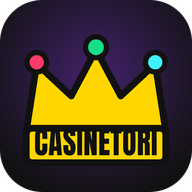
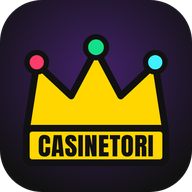
Icono: el texto de la banda ya no toca el borde
Claude-Session: https://claude.ai/code/session_01BC8nAtJhdedbeHBd6GuHtL

Changed region(s): [[0.1562, 0.6562, 0.8438, 0.8438]]

diff --git a/preguntas.html b/preguntas.html
@@ -1,7 +1,7 @@
 <!doctype html><html lang="es"><head><meta charset="utf-8"><meta name="viewport" content="width=device-width,initial-scale=1">
 <title>Preguntas frecuentes | Casinetori</title><meta name="description" content="Respuestas sobre Casinetori: qué es, si usa dinero real (no), si es gratis, cómo jugar con amigos, el simulador de trading y cómo no perder tu cuenta."><meta name="theme-color" content="#0d1020">
 <link rel="icon" href="favicon.png?v=2"><link rel="canonical" href="https://casinetori.com/preguntas.html">
-<meta property="og:type" content="website"><meta property="og:site_name" content="Casinetori"><meta property="og:title" content="Preguntas frecuentes | Casinetori"><meta property="og:description" content="Respuestas sobre Casinetori: qué es, si usa dinero real (no), si es gratis, cómo jugar con amigos, el simulador de trading y cómo no perder tu cuenta."><meta property="og:url" content="https://casinetori.com/preguntas.html"><meta property="og:image" content="https://casinetori.com/og.png?v=2"><meta name="twitter:card" content="summary_large_image">
+<meta property="og:type" content="website"><meta property="og:site_name" content="Casinetori"><meta property="og:title" content="Preguntas frecuentes | Casinetori"><meta property="og:description" content="Respuestas sobre Casinetori: qué es, si usa dinero real (no), si es gratis, cómo jugar con amigos, el simulador de trading y cómo no perder tu cuenta."><meta property="og:url" content="https://casinetori.com/preguntas.html"><meta property="og:image" content="https://casinetori.com/og.png?v=3"><meta name="twitter:card" content="summary_large_image">
 <script async src="https://pagead2.googlesyndication.com/pagead/js/adsbygoogle.js?client=ca-pub-7676884795750639" crossorigin="anonymous"></script><script type="application/ld+json">{"@context": "https://schema.org", "@type": "BreadcrumbList", "itemListElement": [{"@type": "ListItem", "position": 1, "name": "Casinetori", "item": "https://casinetori.com/"}, {"@type": "ListItem", "position": 2, "name": "Preguntas frecuentes sobre Casinetori", "item": "https://casinetori.com/preguntas.html"}]}</script><script type="application/ld+json">{"@context": "https://schema.org", "@type": "FAQPage", "mainEntity": [{"@type": "Question", "name": "¿Qué es Casinetori?", "acceptedAnswer": {"@type": "Answer", "text": "Casinetori es una plataforma de entretenimiento gratuita con casino virtual, trading simulado, minijuegos arcade, rankings y funciones para jugar con amigos."}}, {"@type": "Question", "name": "¿Casinetori usa dinero real?", "acceptedAnswer": {"@type": "Answer", "text": "No. Todo el dinero de Casinetori es ficticio. No se puede apostar dinero real ni comprar dinero del juego."}}, {"@type": "Question", "name": "¿Se puede ganar dinero real?", "acceptedAnswer": {"@type": "Answer", "text": "No. Las monedas y los resultados de Casinetori son virtuales y no tienen ningún valor fuera del juego."}}, {"@type": "Question", "name": "¿Es gratis?", "acceptedAnswer": {"@type": "Answer", "text": "Sí. Se juega gratis desde el navegador del móvil o del ordenador, sin instalar nada. La web se mantiene con anuncios."}}, {"@type": "Question", "name": "¿Se puede jugar con amigos?", "acceptedAnswer": {"@type": "Answer", "text": "Sí. Agregas a tus amigos con su código y podéis competir en la clasificación, regalaros dinero ficticio, mandaros mensajitos y jugar duelos online."}}, {"@type": "Question", "name": "¿Qué es el trading de Casinetori?", "acceptedAnswer": {"@type": "Answer", "text": "Es un simulador de trading con precios ficticios y dinero virtual. Sirve para entretenerse y entender cómo se mueve un mercado, no es asesoramiento financiero."}}, {"@type": "Question", "name": "¿Necesito crear una cuenta?", "acceptedAnswer": {"@type": "Answer", "text": "No. Puedes jugar sin cuenta y tu partida se guarda en tu dispositivo. Si entras con Google, tu partida se guarda en la nube y la tienes en cualquier móvil u ordenador."}}, {"@type": "Question", "name": "¿Qué pasa si pierdo mi cuenta?", "acceptedAnswer": {"@type": "Answer", "text": "Si entras con Google no la pierdes. Si usas usuario y contraseña, apunta tu código de recuperación (Ajustes › Cuenta): con él el jefe del juego puede devolverte la partida."}}]}</script><style>*{box-sizing:border-box}html{-webkit-text-size-adjust:100%}body{margin:0;background:#0d1020;color:#e9ecf8;font:17px/1.65 system-ui,-apple-system,"Segoe UI",Roboto,sans-serif}
 a{color:#ffd600}header{border-bottom:3px dashed #ffd600;background:#14172a}header .in,main,footer .in{max-width:760px;margin:0 auto;padding:16px}
 header .in{display:flex;align-items:center;gap:12px;justify-content:space-between}header a.logo{display:flex;align-items:center;gap:10px;color:#fff;text-decoration:none;font-weight:900;font-size:22px;letter-spacing:.5px}

diff --git a/grupos.html b/grupos.html
@@ -2,7 +2,7 @@
 <html lang="es"><head><meta charset="utf-8"><meta name="viewport" content="width=device-width,initial-scale=1">
 <title>Grupos de amigos y Clasificación propia | Casinetori</title><meta name="description" content="Crea un grupo en Casinetori, invita con enlace o código y compara dinero ficticio, nivel y puntos con tus amigos. Puedes pertenecer a tres grupos."><meta name="theme-color" content="#0d1020">
 <link rel="icon" href="favicon.png?v=2"><link rel="canonical" href="https://casinetori.com/grupos.html">
-<meta property="og:type" content="website"><meta property="og:site_name" content="Casinetori"><meta property="og:locale" content="es_ES"><meta property="og:title" content="Grupos de amigos y Clasificación propia | Casinetori"><meta property="og:description" content="Crea un grupo en Casinetori, invita con enlace o código y compara dinero ficticio, nivel y puntos con tus amigos. Puedes pertenecer a tres grupos."><meta property="og:url" content="https://casinetori.com/grupos.html"><meta property="og:image" content="https://casinetori.com/og.png?v=2"><meta property="og:image:alt" content="Casinetori, juego con dinero ficticio"><meta name="twitter:card" content="summary_large_image">
+<meta property="og:type" content="website"><meta property="og:site_name" content="Casinetori"><meta property="og:locale" content="es_ES"><meta property="og:title" content="Grupos de amigos y Clasificación propia | Casinetori"><meta property="og:description" content="Crea un grupo en Casinetori, invita con enlace o código y compara dinero ficticio, nivel y puntos con tus amigos. Puedes pertenecer a tres grupos."><meta property="og:url" content="https://casinetori.com/grupos.html"><meta property="og:image" content="https://casinetori.com/og.png?v=3"><meta property="og:image:alt" content="Casinetori, juego con dinero ficticio"><meta name="twitter:card" content="summary_large_image">
 <script type="application/ld+json">{"@context": "https://schema.org", "@type": "BreadcrumbList", "itemListElement": [{"@type": "ListItem", "position": 1, "name": "Casinetori", "item": "https://casinetori.com/"}, {"@type": "ListItem", "position": 2, "name": "Grupos de amigos: vuestra propia Clasificación", "item": "https://casinetori.com/grupos.html"}]}</script><style>*{box-sizing:border-box}html{-webkit-text-size-adjust:100%}body{margin:0;background:#0d1020;color:#e9ecf8;font:17px/1.65 system-ui,-apple-system,"Segoe UI",Roboto,sans-serif}
 a{color:#ffd600}header{border-bottom:3px dashed #ffd600;background:#14172a}header .in,main,footer .in{max-width:760px;margin:0 auto;padding:16px}
 header .in{display:flex;align-items:center;gap:12px;justify-content:space-between}header a.logo{display:flex;align-items:center;gap:10px;color:#fff;text-decoration:none;font-weight:900;font-size:22px;letter-spacing:.5px}

diff --git a/bolsa.html b/bolsa.html
@@ -2,7 +2,7 @@
 <html lang="es"><head><meta charset="utf-8"><meta name="viewport" content="width=device-width,initial-scale=1">
 <title>Bolsa de Jugadores con dinero ficticio | Casinetori</title><meta name="description" content="Descubre la Bolsa de Jugadores de Casinetori: acciones virtuales, cartera y precios según el progreso de los jugadores. Todo con dinero ficticio."><meta name="theme-color" content="#0d1020">
 <link rel="icon" href="favicon.png?v=2"><link rel="canonical" href="https://casinetori.com/bolsa.html">
-<meta property="og:type" content="website"><meta property="og:site_name" content="Casinetori"><meta property="og:locale" content="es_ES"><meta property="og:title" content="Bolsa de Jugadores con dinero ficticio | Casinetori"><meta property="og:description" content="Descubre la Bolsa de Jugadores de Casinetori: acciones virtuales, cartera y precios según el progreso de los jugadores. Todo con dinero ficticio."><meta property="og:url" content="https://casinetori.com/bolsa.html"><meta property="og:image" content="https://casinetori.com/og.png?v=2"><meta property="og:image:alt" content="Casinetori, juego con dinero ficticio"><meta name="twitter:card" content="summary_large_image">
+<meta property="og:type" content="website"><meta property="og:site_name" content="Casinetori"><meta property="og:locale" content="es_ES"><meta property="og:title" content="Bolsa de Jugadores con dinero ficticio | Casinetori"><meta property="og:description" content="Descubre la Bolsa de Jugadores de Casinetori: acciones virtuales, cartera y precios según el progreso de los jugadores. Todo con dinero ficticio."><meta property="og:url" content="https://casinetori.com/bolsa.html"><meta property="og:image" content="https://casinetori.com/og.png?v=3"><meta property="og:image:alt" content="Casinetori, juego con dinero ficticio"><meta name="twitter:card" content="summary_large_image">
 <script type="application/ld+json">{"@context": "https://schema.org", "@type": "BreadcrumbList", "itemListElement": [{"@type": "ListItem", "position": 1, "name": "Casinetori", "item": "https://casinetori.com/"}, {"@type": "ListItem", "position": 2, "name": "Bolsa de Jugadores: una cartera basada en el juego", "item": "https://casinetori.com/bolsa.html"}]}</script><style>*{box-sizing:border-box}html{-webkit-text-size-adjust:100%}body{margin:0;background:#0d1020;color:#e9ecf8;font:17px/1.65 system-ui,-apple-system,"Segoe UI",Roboto,sans-serif}
 a{color:#ffd600}header{border-bottom:3px dashed #ffd600;background:#14172a}header .in,main,footer .in{max-width:760px;margin:0 auto;padding:16px}
 header .in{display:flex;align-items:center;gap:12px;justify-content:space-between}header a.logo{display:flex;align-items:center;gap:10px;color:#fff;text-decoration:none;font-weight:900;font-size:22px;letter-spacing:.5px}

diff --git a/casino.html b/casino.html
@@ -1,7 +1,7 @@
 <!doctype html><html lang="es"><head><meta charset="utf-8"><meta name="viewport" content="width=device-width,initial-scale=1">
 <title>Juegos de casino de mentira, sin dinero real | Casinetori</title><meta name="description" content="Juega gratis a juegos de casino virtual con monedas ficticias: tragaperras, ruleta, blackjack y más. Compite en la clasificación con tus amigos sin usar dinero real."><meta name="theme-color" content="#0d1020">
 <link rel="icon" href="favicon.png?v=2"><link rel="canonical" href="https://casinetori.com/casino.html">
-<meta property="og:type" content="website"><meta property="og:site_name" content="Casinetori"><meta property="og:title" content="Juegos de casino de mentira, sin dinero real | Casinetori"><meta property="og:description" content="Juega gratis a juegos de casino virtual con monedas ficticias: tragaperras, ruleta, blackjack y más. Compite en la clasificación con tus amigos sin usar dinero real."><meta property="og:url" content="https://casinetori.com/casino.html"><meta property="og:image" content="https://casinetori.com/og.png?v=2"><meta name="twitter:card" content="summary_large_image">
+<meta property="og:type" content="website"><meta property="og:site_name" content="Casinetori"><meta property="og:title" content="Juegos de casino de mentira, sin dinero real | Casinetori"><meta property="og:description" content="Juega gratis a juegos de casino virtual con monedas ficticias: tragaperras, ruleta, blackjack y más. Compite en la clasificación con tus amigos sin usar dinero real."><meta property="og:url" content="https://casinetori.com/casino.html"><meta property="og:image" content="https://casinetori.com/og.png?v=3"><meta name="twitter:card" content="summary_large_image">
 <script async src="https://pagead2.googlesyndication.com/pagead/js/adsbygoogle.js?client=ca-pub-7676884795750639" crossorigin="anonymous"></script><script type="application/ld+json">{"@context": "https://schema.org", "@type": "BreadcrumbList", "itemListElement": [{"@type": "ListItem", "position": 1, "name": "Casinetori", "item": "https://casinetori.com/"}, {"@type": "ListItem", "position": 2, "name": "Casino virtual con dinero ficticio", "item": "https://casinetori.com/casino.html"}]}</script><style>*{box-sizing:border-box}html{-webkit-text-size-adjust:100%}body{margin:0;background:#0d1020;color:#e9ecf8;font:17px/1.65 system-ui,-apple-system,"Segoe UI",Roboto,sans-serif}
 a{color:#ffd600}header{border-bottom:3px dashed #ffd600;background:#14172a}header .in,main,footer .in{max-width:760px;margin:0 auto;padding:16px}
 header .in{display:flex;align-items:center;gap:12px;justify-content:space-between}header a.logo{display:flex;align-items:center;gap:10px;color:#fff;text-decoration:none;font-weight:900;font-size:22px;letter-spacing:.5px}

diff --git a/trading.html b/trading.html
@@ -1,7 +1,7 @@
 <!doctype html><html lang="es"><head><meta charset="utf-8"><meta name="viewport" content="width=device-width,initial-scale=1">
 <title>Simulador de trading con dinero virtual | Casinetori</title><meta name="description" content="Practica trading de forma virtual: opera con dinero ficticio, sigue tus resultados en gráficas en tiempo real y compite con otros jugadores en la clasificación."><meta name="theme-color" content="#0d1020">
 <link rel="icon" href="favicon.png?v=2"><link rel="canonical" href="https://casinetori.com/trading.html">
-<meta property="og:type" content="website"><meta property="og:site_name" content="Casinetori"><meta property="og:title" content="Simulador de trading con dinero virtual | Casinetori"><meta property="og:description" content="Practica trading de forma virtual: opera con dinero ficticio, sigue tus resultados en gráficas en tiempo real y compite con otros jugadores en la clasificación."><meta property="og:url" content="https://casinetori.com/trading.html"><meta property="og:image" content="https://casinetori.com/og.png?v=2"><meta name="twitter:card" content="summary_large_image">
+<meta property="og:type" content="website"><meta property="og:site_name" content="Casinetori"><meta property="og:title" content="Simulador de trading con dinero virtual | Casinetori"><meta property="og:description" content="Practica trading de forma virtual: opera con dinero ficticio, sigue tus resultados en gráficas en tiempo real y compite con otros jugadores en la clasificación."><meta property="og:url" content="https://casinetori.com/trading.html"><meta property="og:image" content="https://casinetori.com/og.png?v=3"><meta name="twitter:card" content="summary_large_image">
 <script async src="https://pagead2.googlesyndication.com/pagead/js/adsbygoogle.js?client=ca-pub-7676884795750639" crossorigin="anonymous"></script><script type="application/ld+json">{"@context": "https://schema.org", "@type": "BreadcrumbList", "itemListElement": [{"@type": "ListItem", "position": 1, "name": "Casinetori", "item": "https://casinetori.com/"}, {"@type": "ListItem", "position": 2, "name": "Trading simulado con dinero virtual", "item": "https://casinetori.com/trading.html"}]}</script><style>*{box-sizing:border-box}html{-webkit-text-size-adjust:100%}body{margin:0;background:#0d1020;color:#e9ecf8;font:17px/1.65 system-ui,-apple-system,"Segoe UI",Roboto,sans-serif}
 a{color:#ffd600}header{border-bottom:3px dashed #ffd600;background:#14172a}header .in,main,footer .in{max-width:760px;margin:0 auto;padding:16px}
 header .in{display:flex;align-items:center;gap:12px;justify-content:space-between}header a.logo{display:flex;align-items:center;gap:10px;color:#fff;text-decoration:none;font-weight:900;font-size:22px;letter-spacing:.5px}

diff --git a/ranking.html b/ranking.html
@@ -1,7 +1,7 @@
 <!doctype html><html lang="es"><head><meta charset="utf-8"><meta name="viewport" content="width=device-width,initial-scale=1">
 <title>Clasificación de jugadores | Casinetori</title><meta name="description" content="Consulta la clasificación (ranking) de Casinetori: quién tiene más dinero ficticio, más nivel, más logros y los mejores récords en cada juego. Compite con tus amigos."><meta name="theme-color" content="#0d1020">
 <link rel="icon" href="favicon.png?v=2"><link rel="canonical" href="https://casinetori.com/ranking.html">
-<meta property="og:type" content="website"><meta property="og:site_name" content="Casinetori"><meta property="og:title" content="Clasificación de jugadores | Casinetori"><meta property="og:description" content="Consulta la clasificación (ranking) de Casinetori: quién tiene más dinero ficticio, más nivel, más logros y los mejores récords en cada juego. Compite con tus amigos."><meta property="og:url" content="https://casinetori.com/ranking.html"><meta property="og:image" content="https://casinetori.com/og.png?v=2"><meta name="twitter:card" content="summary_large_image">
+<meta property="og:type" content="website"><meta property="og:site_name" content="Casinetori"><meta property="og:title" content="Clasificación de jugadores | Casinetori"><meta property="og:description" content="Consulta la clasificación (ranking) de Casinetori: quién tiene más dinero ficticio, más nivel, más logros y los mejores récords en cada juego. Compite con tus amigos."><meta property="og:url" content="https://casinetori.com/ranking.html"><meta property="og:image" content="https://casinetori.com/og.png?v=3"><meta name="twitter:card" content="summary_large_image">
 <script async src="https://pagead2.googlesyndication.com/pagead/js/adsbygoogle.js?client=ca-pub-7676884795750639" crossorigin="anonymous"></script><script type="application/ld+json">{"@context": "https://schema.org", "@type": "BreadcrumbList", "itemListElement": [{"@type": "ListItem", "position": 1, "name": "Casinetori", "item": "https://casinetori.com/"}, {"@type": "ListItem", "position": 2, "name": "Clasificación de jugadores", "item": "https://casinetori.com/ranking.html"}]}</script><style>*{box-sizing:border-box}html{-webkit-text-size-adjust:100%}body{margin:0;background:#0d1020;color:#e9ecf8;font:17px/1.65 system-ui,-apple-system,"Segoe UI",Roboto,sans-serif}
 a{color:#ffd600}header{border-bottom:3px dashed #ffd600;background:#14172a}header .in,main,footer .in{max-width:760px;margin:0 auto;padding:16px}
 header .in{display:flex;align-items:center;gap:12px;justify-content:space-between}header a.logo{display:flex;align-items:center;gap:10px;color:#fff;text-decoration:none;font-weight:900;font-size:22px;letter-spacing:.5px}

diff --git a/amigos.html b/amigos.html
@@ -1,7 +1,7 @@
 <!doctype html><html lang="es"><head><meta charset="utf-8"><meta name="viewport" content="width=device-width,initial-scale=1">
 <title>Juegos online con amigos | Casinetori</title><meta name="description" content="Juega online con tus amigos en Casinetori: agrégalos con su código, regálales dinero ficticio, mándales mensajitos, retaos a duelos y competid en la clasificación."><meta name="theme-color" content="#0d1020">
 <link rel="icon" href="favicon.png?v=2"><link rel="canonical" href="https://casinetori.com/amigos.html">
-<meta property="og:type" content="website"><meta property="og:site_name" content="Casinetori"><meta property="og:title" content="Juegos online con amigos | Casinetori"><meta property="og:description" content="Juega online con tus amigos en Casinetori: agrégalos con su código, regálales dinero ficticio, mándales mensajitos, retaos a duelos y competid en la clasificación."><meta property="og:url" content="https://casinetori.com/amigos.html"><meta property="og:image" content="https://casinetori.com/og.png?v=2"><meta name="twitter:card" content="summary_large_image">
+<meta property="og:type" content="website"><meta property="og:site_name" content="Casinetori"><meta property="og:title" content="Juegos online con amigos | Casinetori"><meta property="og:description" content="Juega online con tus amigos en Casinetori: agrégalos con su código, regálales dinero ficticio, mándales mensajitos, retaos a duelos y competid en la clasificación."><meta property="og:url" content="https://casinetori.com/amigos.html"><meta property="og:image" content="https://casinetori.com/og.png?v=3"><meta name="twitter:card" content="summary_large_image">
 <script async src="https://pagead2.googlesyndication.com/pagead/js/adsbygoogle.js?client=ca-pub-7676884795750639" crossorigin="anonymous"></script><script type="application/ld+json">{"@context": "https://schema.org", "@type": "BreadcrumbList", "itemListElement": [{"@type": "ListItem", "position": 1, "name": "Casinetori", "item": "https://casinetori.com/"}, {"@type": "ListItem", "position": 2, "name": "Juega y compite con tus amigos", "item": "https://casinetori.com/amigos.html"}]}</script><style>*{box-sizing:border-box}html{-webkit-text-size-adjust:100%}body{margin:0;background:#0d1020;color:#e9ecf8;font:17px/1.65 system-ui,-apple-system,"Segoe UI",Roboto,sans-serif}
 a{color:#ffd600}header{border-bottom:3px dashed #ffd600;background:#14172a}header .in,main,footer .in{max-width:760px;margin:0 auto;padding:16px}
 header .in{display:flex;align-items:center;gap:12px;justify-content:space-between}header a.logo{display:flex;align-items:center;gap:10px;color:#fff;text-decoration:none;font-weight:900;font-size:22px;letter-spacing:.5px}

diff --git a/index.html b/index.html
@@ -14,7 +14,7 @@ d.onclick=function(){try{localStorage.setItem('vicio-arcade-v2-v','inicio')}catc
 <title>Casinetori · Minijuegos, ligas y retos con amigos</title>
 <meta name="theme-color" content="#141416">
 <meta name="app-version" content="2026-10-04-u">
-<link rel="icon" type="image/png" href="favicon.png?v=2"><link rel="apple-touch-icon" href="apple-touch-icon.png?v=2">
+<link rel="icon" type="image/png" href="favicon.png?v=2"><link rel="apple-touch-icon" href="apple-touch-icon.png?v=3">
 <style>[hidden]{display:none!important}html,body{margin:0}img{max-width:100%}#toasts{top:auto;bottom:calc(20px + env(safe-area-inset-bottom,0px))}
 @media (max-width:880px){#toasts{top:calc(var(--barh,64px) + 8px + env(safe-area-inset-top,0px));bottom:auto}}
 @media (max-width:880px){.nav .nb{font-size:9px;letter-spacing:0;min-width:0;overflow:hidden}.nav .nb .ico{width:36px}}
@@ -3370,8 +3370,8 @@ html body #trLiveBar{position:static;margin:0 0 8px;left:auto;right:auto;top:aut
 <link rel="canonical" href="https://casinetori.com/">
 <script async src="https://pagead2.googlesyndication.com/pagead/js/adsbygoogle.js?client=ca-pub-7676884795750639" crossorigin="anonymous"></script>
 <meta property="og:url" content="https://casinetori.com/">
-<meta property="og:image" content="https://casinetori.com/og.png?v=2">
-<meta name="twitter:image" content="https://casinetori.com/og.png?v=2">
+<meta property="og:image" content="https://casinetori.com/og.png?v=3">
+<meta name="twitter:image" content="https://casinetori.com/og.png?v=3">
 <!-- Cuando Google Search Console te dé el código, quita el comentario y pégalo aquí:
 <meta name="google-site-verification" content="CODIGO_DE_SEARCH_CONSOLE">
 -->

diff --git a/tienda.html b/tienda.html
@@ -14,7 +14,7 @@
 <meta property="og:title" content="Tienda de objetos virtuales y colecciones | Casinetori">
 <meta property="og:description" content="Descubre la Tienda de Casinetori: caprichos, vehículos, casas y objetos Cosmos. Colecciona con dinero ficticio y enseña tus compras en tu perfil.">
 <meta property="og:url" content="https://casinetori.com/tienda.html">
-<meta property="og:image" content="https://casinetori.com/og.png?v=2">
+<meta property="og:image" content="https://casinetori.com/og.png?v=3">
 <meta property="og:image:alt" content="Casinetori, juego web con dinero ficticio">
 <meta name="twitter:card" content="summary_large_image">
 <script type="application/ld+json">{"@context": "https://schema.org", "@type": "BreadcrumbList", "itemListElement": [{"@type": "ListItem", "position": 1, "name": "Casinetori", "item": "https://casinetori.com/"}, {"@type": "ListItem", "position": 2, "name": "Una Tienda de caprichos y objetos virtuales", "item": "https://casinetori.com/tienda.html"}]}</script>

diff --git a/juegos.html b/juegos.html
@@ -14,7 +14,7 @@
 <meta property="og:title" content="Minijuegos online gratis: Dash, Snake y más | Casinetori">
 <meta property="og:description" content="Prueba varios minijuegos online en Casinetori: Dash, Snake, Memoria, Penaltis y más. Supera tus marcas y compara resultados con amigos.">
 <meta property="og:url" content="https://casinetori.com/juegos.html">
-<meta property="og:image" content="https://casinetori.com/og.png?v=2">
+<meta property="og:image" content="https://casinetori.com/og.png?v=3">
 <meta property="og:image:alt" content="Casinetori, juego web con dinero ficticio">
 <meta name="twitter:card" content="summary_large_image">
 <script type="application/ld+json">{"@context": "https://schema.org", "@type": "BreadcrumbList", "itemListElement": [{"@type": "ListItem", "position": 1, "name": "Casinetori", "item": "https://casinetori.com/"}, {"@type": "ListItem", "position": 2, "name": "Minijuegos online gratis para superar tus marcas", "item": "https://casinetori.com/juegos.html"}]}</script>

diff --git a/eventos.html b/eventos.html
@@ -14,7 +14,7 @@
 <meta property="og:title" content="Eventos y recompensas virtuales | Casinetori">
 <meta property="og:description" content="Consulta cómo funcionan los eventos de Casinetori: dinero ficticio extra, experiencia, lluvia de monedas y actividades especiales en Inicio.">
 <meta property="og:url" content="https://casinetori.com/eventos.html">
-<meta property="og:image" content="https://casinetori.com/og.png?v=2">
+<meta property="og:image" content="https://casinetori.com/og.png?v=3">
 <meta property="og:image:alt" content="Casinetori, juego web con dinero ficticio">
 <meta name="twitter:card" content="summary_large_image">
 <script type="application/ld+json">{"@context": "https://schema.org", "@type": "BreadcrumbList", "itemListElement": [{"@type": "ListItem", "position": 1, "name": "Casinetori", "item": "https://casinetori.com/"}, {"@type": "ListItem", "position": 2, "name": "Eventos de Casinetori: consulta qué está activo", "item": "https://casinetori.com/eventos.html"}]}</script>
